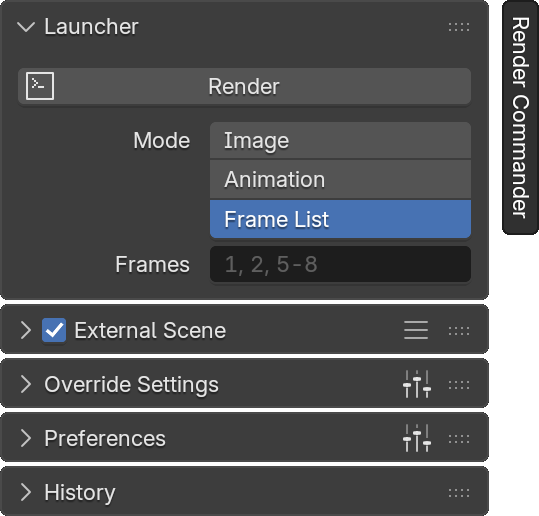
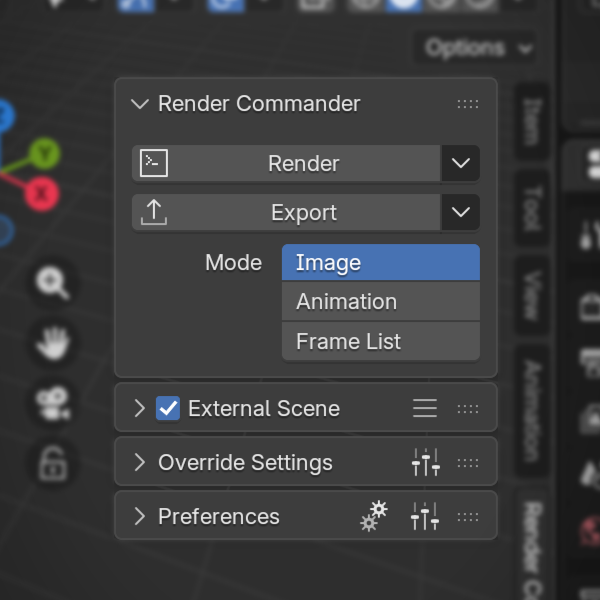
Update README.md to enhance description of render job configuration and execution

diff --git a/README.md b/README.md
@@ -2,9 +2,9 @@
 
 Blender add‑on for background rendering with multi‑GPU support.
 
-This addon provides a simple and intuitive UI to configure a set of common render settings.
-It compiles all selected options into a temporary Python file, which is then attached to a Blender command-line render execution.
-This approach enables fast, efficient, and fully automated background renders without manual setup.
+The add-on provides a simple and intuitive UI to configure render jobs and device-parallel execution.
+All selected options are compiled into fully generated render executables, allowing you to either launch renders immediately or export them for later use.
+
 
 <img src="images/render_launcher.png" alt="Render-Commander Panel" width="320">
 
